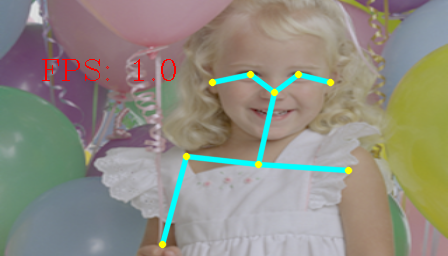
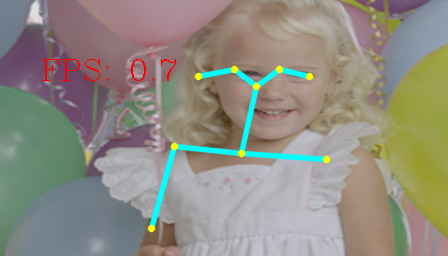
UPD: implemented video capture on web-camera mode

Changed region(s): [[0.3125, 0.25, 0.8125, 0.9688], [0.2812, 0.2188, 0.4062, 0.3125]]

diff --git a/lightweight-human-pose-estimation-3d/lightweight-human-pose-estimation-3d.py b/lightweight-human-pose-estimation-3d/lightweight-human-pose-estimation-3d.py
@@ -27,23 +27,29 @@ def rotate_poses(poses_3d, R, t):
 def main():
     parser = ArgumentParser(
         description='Lightweight 3D human pose estimation demo. '
-        # 'Press esc to exit, "p" to (un)pause video or process next image.'
+        'Press esc to exit, "p" to (un)pause video or process next image.'
     )
-    # parser.add_argument(
-    #     '--video',
-    #     help='Optional. Path to video file or camera id.',
-    #     type=str,
-    #     default=''
-    # )
+    parser.add_argument(
+        '--video',
+        help='Optional. Path to video file or camera id.',
+        type=str,
+        default=''
+    )
     parser.add_argument(
         '--images',
         help='Optional. Path to input image(s).',
         nargs='+',
         default=''
     )
+    parser.add_argument(
+        '--rotate3d',
+        help='allowing 3D canvas rotation while on pause',
+        action='store_true',
+        default=False
+    )
     args = parser.parse_args()
 
-    if args.images == '':  # and arigs.video == ''
+    if args.images == '' and args.video == '':
         raise ValueError('Either --images has to be provided')
     
     weight_path = 'human-pose-estimation-3d.onnx'
@@ -79,16 +85,16 @@ def main():
 
     frame_provider = ImageReader(args.images)
     is_video = False
-    # if args.video != '':
-    #     frame_provider = VideoReader(args.video)
-    #     is_video = True
+    if args.video != '':
+        frame_provider = VideoReader(args.video)
+        is_video = True
     base_height = 256
     fx = -1
 
-    # delay = 1
-    # esc_code = 27
-    # p_code = 112
-    # space_code = 32
+    delay = 1
+    esc_code = 27
+    p_code = 112
+    space_code = 32
     mean_time = 0
     img_mean = np.array([128, 128, 128], dtype=np.float32)
     
@@ -97,12 +103,10 @@ def main():
         if frame is None:
             break
         input_scale = base_height / frame.shape[0]
-        # scaled_img = cv2.resize(
-        #     frame, dsize=None, fx=input_scale, fy=input_scale
-        # )
-        # scaled_img = scaled_img[
-        #     :, 0:scaled_img.shape[1] - (scaled_img.shape[1] % stride)
-        # ]  # better to pad, but cut out for demo
+
+        # fixed when the model was exported
+        frame = cv2.resize(frame, dsize=(448, 256))
+        
         if fx < 0:  # Focal length is unknown
             fx = np.float32(0.8 * frame.shape[1])
         
@@ -111,15 +115,20 @@ def main():
             np.rollaxis(normalized_img, 2, 0),
             axis=0
         )
-        print(f'[DEBUG] {normalized_img.shape}')
-        for i in range(5):
-            start = int(round(time.time() * 1000))
+        if is_video:
             input_blobs = net.get_input_blob_list()
             net.set_input_blob_data(normalized_img, input_blobs[0])
             net.update()
             features, heatmaps, pafs = net.get_results()
-            end = int(round(time.time() * 1000))
-            print("ailia processing time {} ms".format(end - start))
+        else:
+            for i in range(5):
+                start = int(round(time.time() * 1000))
+                input_blobs = net.get_input_blob_list()
+                net.set_input_blob_data(normalized_img, input_blobs[0])
+                net.update()
+                features, heatmaps, pafs = net.get_results()
+                end = int(round(time.time() * 1000))
+                print("ailia processing time {} ms".format(end - start))
 
         inference_result = (
             features[-1].squeeze(),
@@ -149,8 +158,10 @@ def main():
                 19 * np.arange(poses_3d.shape[0]).reshape((-1, 1, 1))
             ).reshape((-1, 2))
         plotter.plot(canvas_3d, poses_3d, edges)
-        # cv2.imshow(canvas_3d_window_name, canvas_3d)
-        cv2.imwrite(canvas_3d_window_name + f'_{frame_id}.png', canvas_3d)
+        if is_video:
+            cv2.imshow(canvas_3d_window_name, canvas_3d)
+        else:
+            cv2.imwrite(canvas_3d_window_name + f'_{frame_id}.png', canvas_3d)
 
         draw_poses(frame, poses_2d)
         current_time = (cv2.getTickCount()-current_time)/cv2.getTickFrequency()
@@ -160,30 +171,33 @@ def main():
             mean_time = mean_time * 0.95 + current_time * 0.05
         cv2.putText(frame, 'FPS: {}'.format(int(1 / mean_time * 10) / 10),
                     (40, 80), cv2.FONT_HERSHEY_COMPLEX, 1, (0, 0, 255))
-        # cv2.imshow('ICV 3D Human Pose Estimation', frame)
-        cv2.imwrite(f'ICV_3D_Human_Pose_Estimation_{frame_id}.png', frame)
+        if is_video:
+            cv2.imshow('ICV 3D Human Pose Estimation', frame)
+        else:
+            cv2.imwrite(f'ICV_3D_Human_Pose_Estimation_{frame_id}.png', frame)
 
-        # key = cv2.waitKey(delay)
-        # if key == esc_code:
-        #     break
-        # if key == p_code:
-        #     if delay == 1:
-        #         delay = 0
-        #     else:
-        #         delay = 1
-        # # allow to rotate 3D canvas while on pause
-        # if delay == 0 or not is_video:  
-        #     key = 0
-        #     while (key != p_code
-        #            and key != esc_code
-        #            and key != space_code):
-        #         plotter.plot(canvas_3d, poses_3d, edges)
-        #         cv2.imshow(canvas_3d_window_name, canvas_3d)
-        #         key = cv2.waitKey(33)
-        #     if key == esc_code:
-        #         break
-        #     else:
-        #         delay = 1
+        key = cv2.waitKey(delay)
+        if key == esc_code:
+            break
+        if key == p_code:
+            if delay == 1:
+                delay = 0
+            else:
+                delay = 1
+        # allow to rotate 3D canvas while on pause
+        # TODO make argument to activate \this
+        if delay == 0 and args.rotate3d:
+            key = 0
+            while (key != p_code
+                   and key != esc_code
+                   and key != space_code):
+                plotter.plot(canvas_3d, poses_3d, edges)
+                cv2.imshow(canvas_3d_window_name, canvas_3d)
+                key = cv2.waitKey(33)
+            if key == esc_code:
+                break
+            else:
+                delay = 1
     
 
 if __name__ == "__main__":

diff --git a/lightweight-human-pose-estimation-3d/modules/input_reader.py b/lightweight-human-pose-estimation-3d/modules/input_reader.py
@@ -14,8 +14,6 @@ class ImageReader:
         if self.idx == self.max_idx:
             raise StopIteration
         img = cv2.imread(self.file_names[self.idx], cv2.IMREAD_COLOR)
-        # fixed when the model was exported
-        img = cv2.resize(img, dsize=(448, 256))
         if img.size == 0:
             raise IOError(
                 'Image {} cannot be read'.format(self.file_names[self.idx])
@@ -35,7 +33,9 @@ class VideoReader:
     def __iter__(self):
         self.cap = cv2.VideoCapture(self.file_name)
         self.cap.set(cv2.CAP_PROP_FRAME_WIDTH, 1920)
+        # self.cap.set(cv2.CAP_PROP_FRAME_WIDTH, 448)
         self.cap.set(cv2.CAP_PROP_FRAME_HEIGHT, 1080)
+        # self.cap.set(cv2.CAP_PROP_FRAME_HEIGHT, 256)
         if not self.cap.isOpened():
             raise IOError('Video {} cannot be opened'.format(self.file_name))
         return self

diff --git a/lightweight-human-pose-estimation-3d/README.md b/lightweight-human-pose-estimation-3d/README.md
@@ -1,0 +1,42 @@
+# BlazeFace
+
+### input
+
+![input_image](input.png)
+
+Shape(1, 3,	256, 448) Range:[-1, 1]
+
+### output
+
+![output_image](ICV_3D_Human_Pose_Estimation_0.png)
+
+
+### usage
+
+For images:
+``` bash
+python3 lightweight-human-pose-estimation-3d.py --images input.png
+```
+argument `ratate3d` to activate 3d-canvas-rotation-mode
+
+In order to use web-camera,
+```bash
+python3 lightweight-human-pose-estimation-3d.py --video 0
+```
+(try -1 or 1 if 0 does not work, it may depends on your system)
+
+
+
+
+
+### Reference
+
+[BlazeFace-PyTorch](https://github.com/hollance/BlazeFace-PyTorch)
+
+
+### Framework
+PyTorch 1.1
+
+
+### Model Format
+ONNX opset = 10
